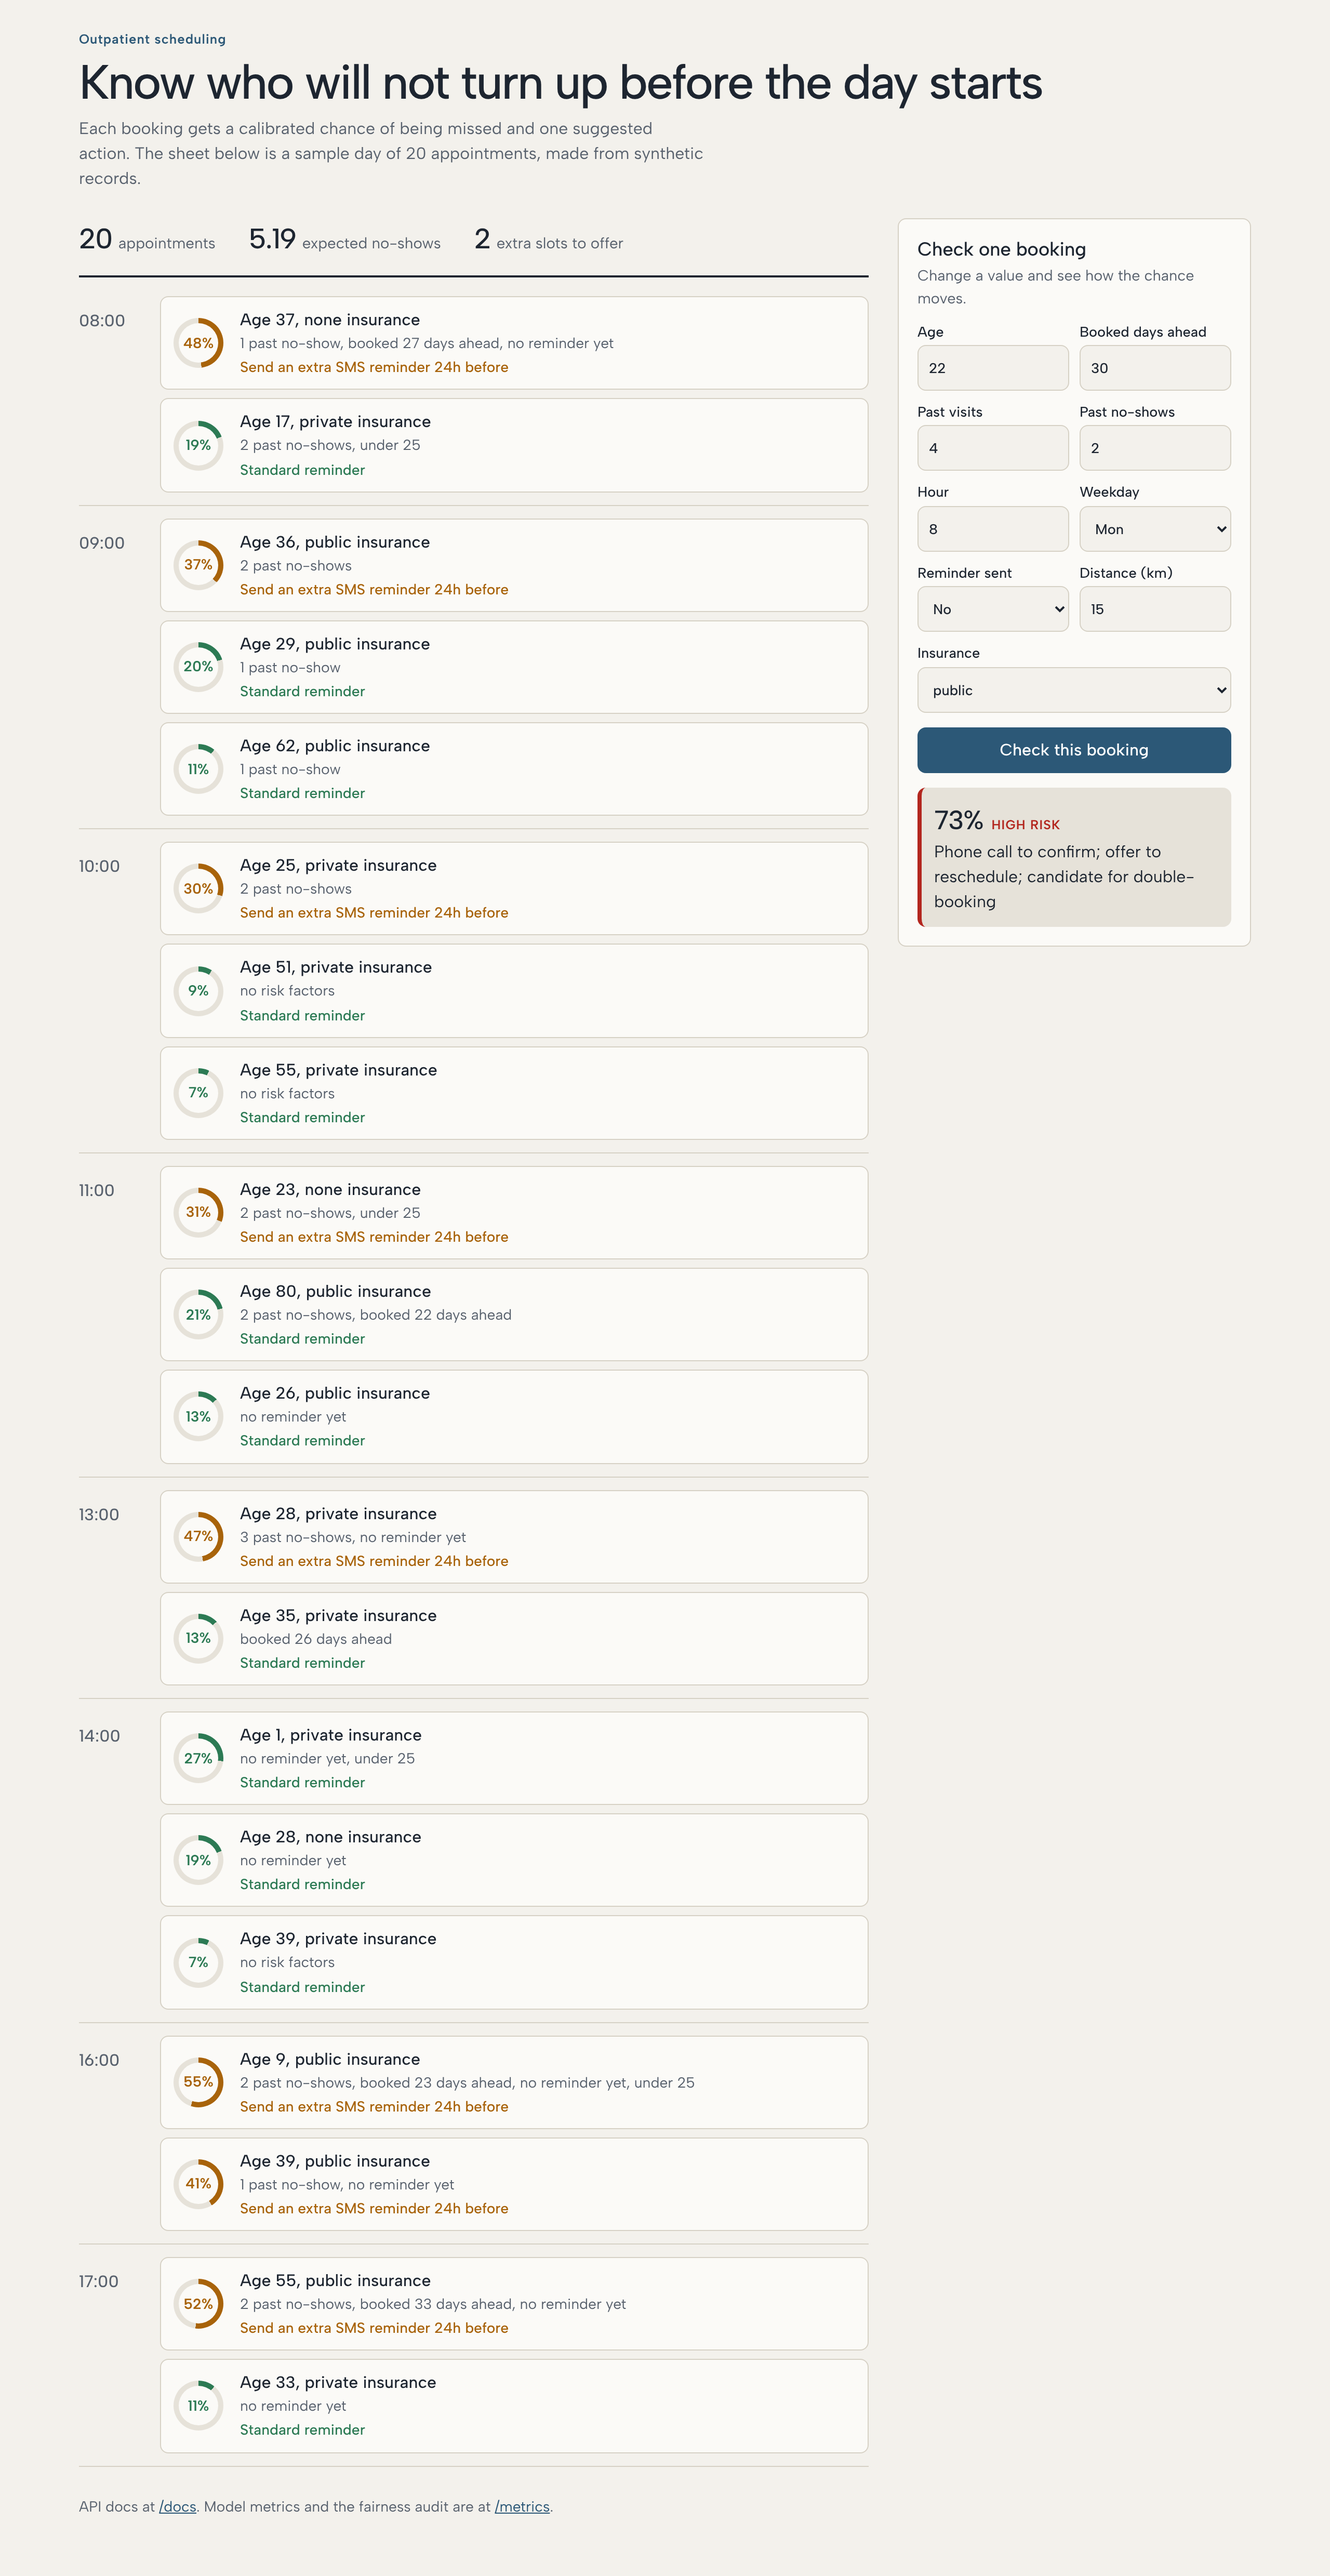
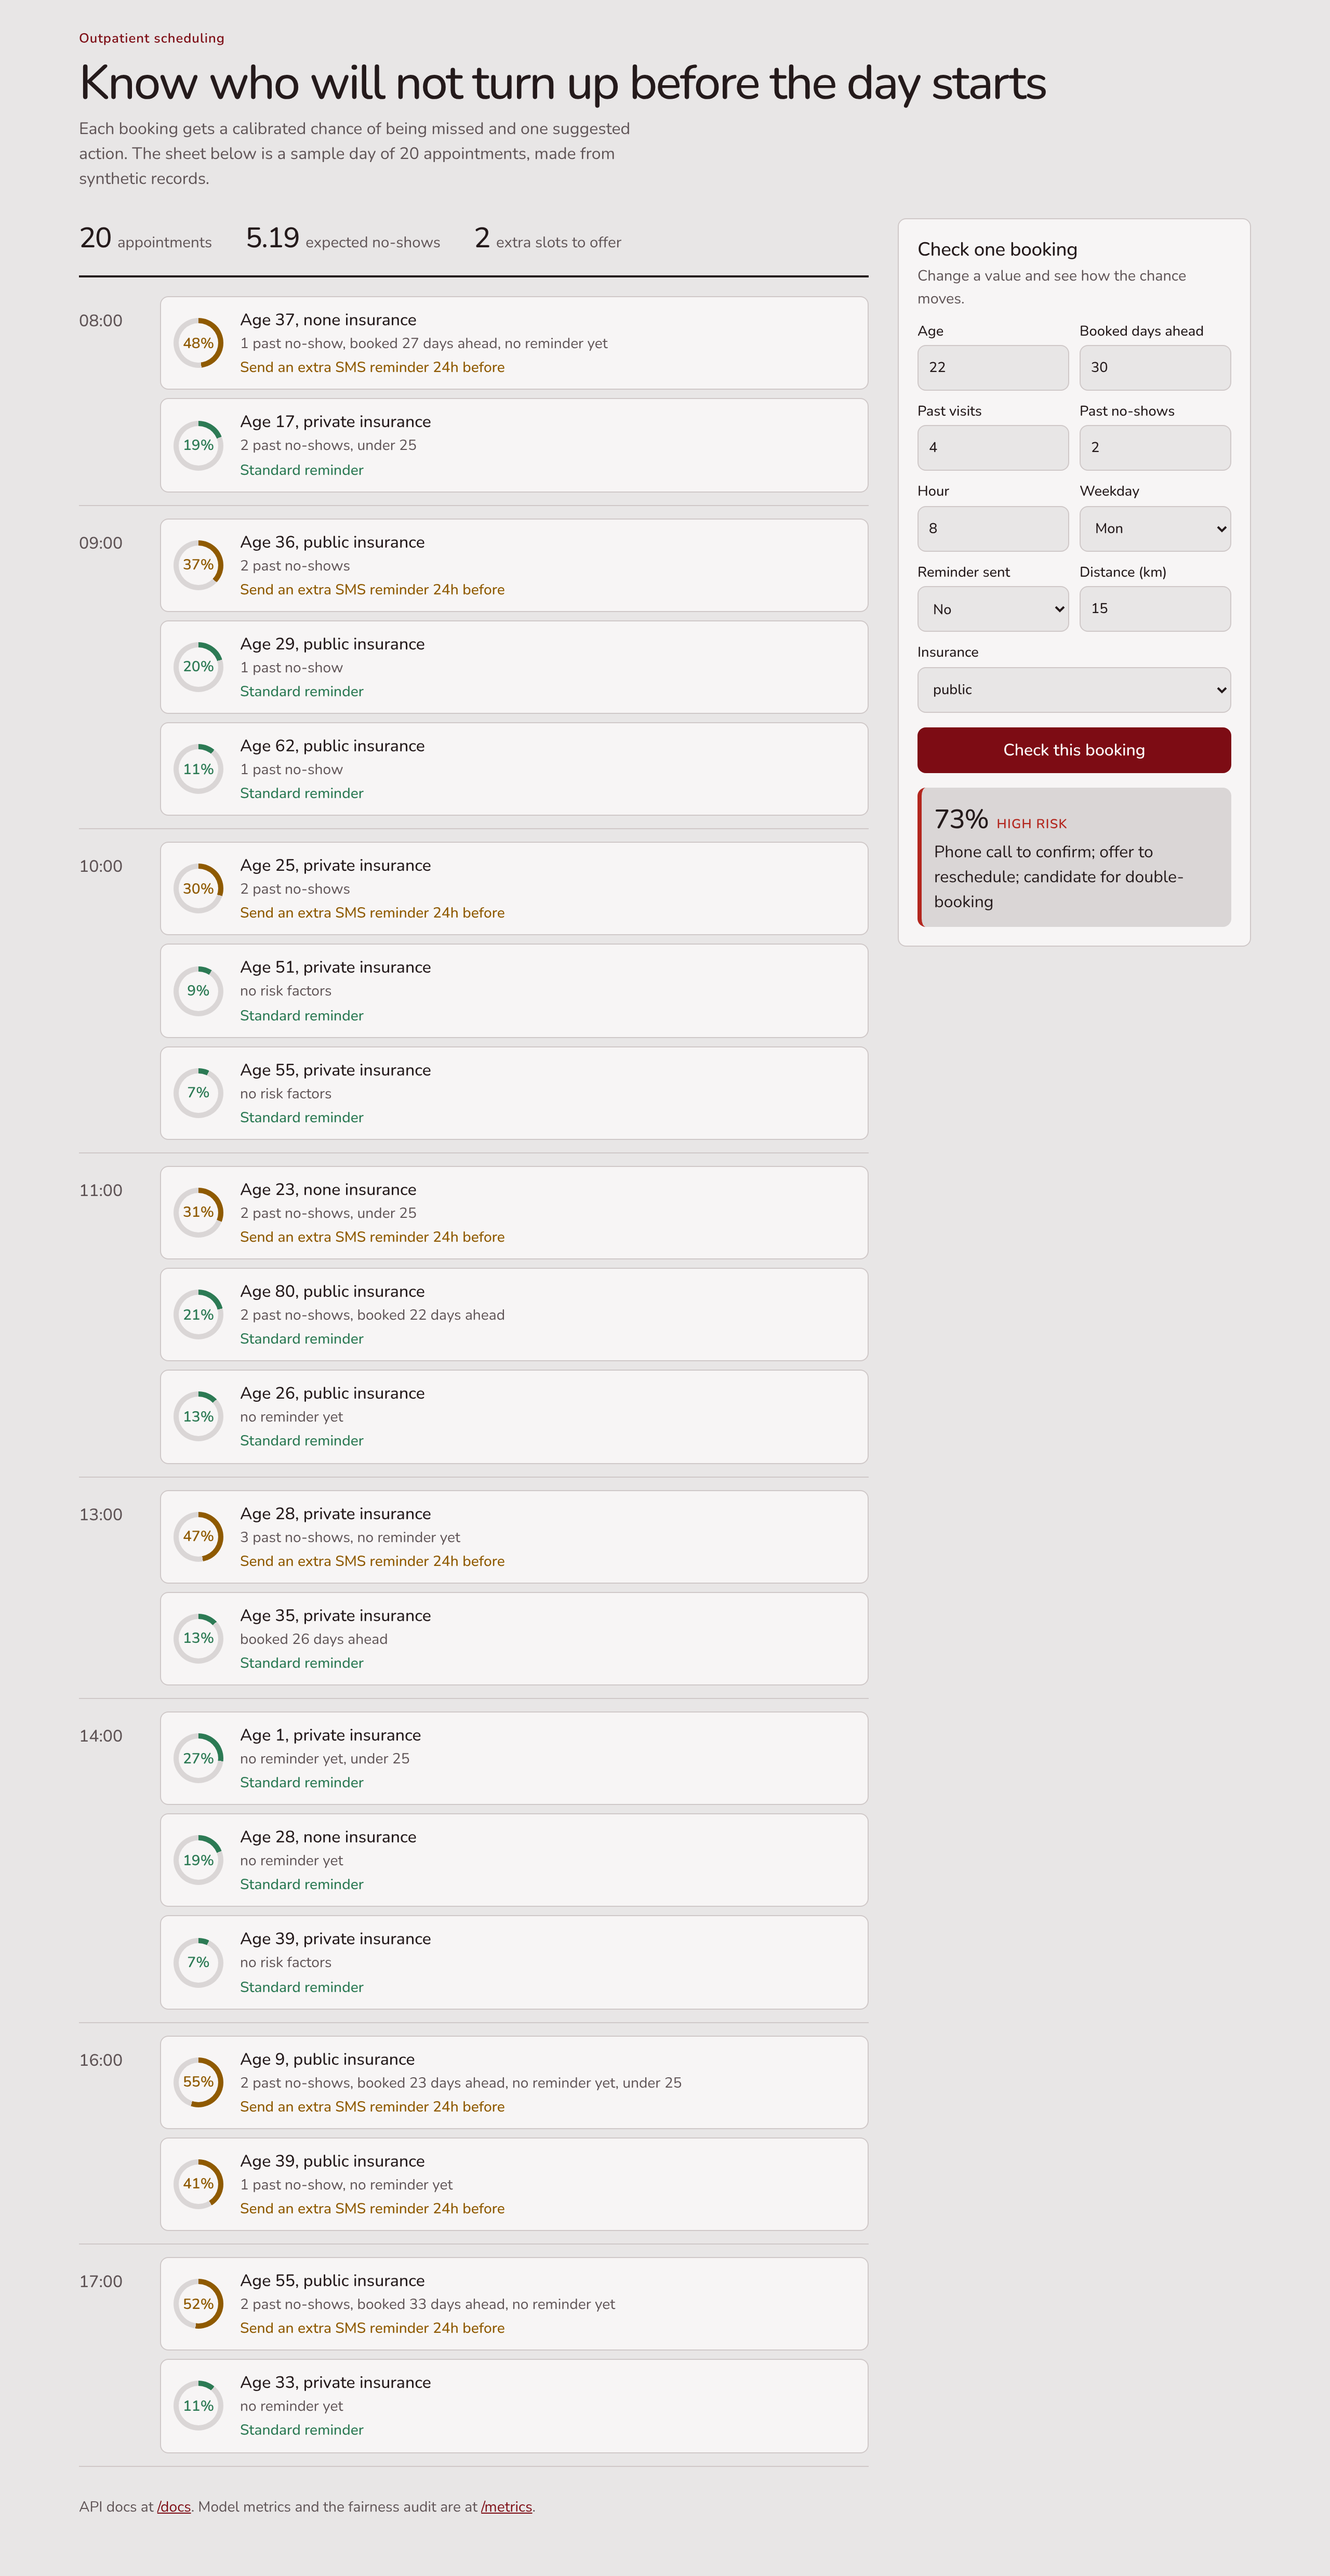
Recolor clinic UI: oxblood palette, Nunito type
Claude-Session: https://claude.ai/code/session_0162F6eeS2UuxoD82Lgwjb2t

diff --git a/static/index.html b/static/index.html
@@ -6,19 +6,19 @@
 <title>Day Sheet</title>
 <meta name="description" content="A clinic day sheet that shows which appointments are likely to be missed and what to do about each one.">
 <link rel="preconnect" href="https://fonts.googleapis.com">
-<link rel="stylesheet" href="https://fonts.googleapis.com/css2?family=Albert+Sans:wght@400;500;600&display=swap">
+<link rel="stylesheet" href="https://fonts.googleapis.com/css2?family=Nunito:wght@400;500;600;700&display=swap">
 <style>
-/* Visual system dealt with taste-skill: palette "linen-harbour", type "albert" (Albert Sans), soft radius. Layout: timetable with a side desk. */
+/* Visual system dealt with taste-skill: palette "oxblood-grey", type "nunito" (Nunito), soft radius. Layout: timetable with a side desk. */
 :root {
-  --bg:#f3f1ec; --surface:#e6e2d9; --card:#fbfaf7; --ink:#1d2530; --muted:#59626e; --accent:#2c5877; --on-accent:#ffffff; --line:#d6d1c5;
-  --high:#b3261e; --medium:#a8630a; --low:#2c7a54;
-  --sans:"Albert Sans", system-ui, sans-serif; --ease:cubic-bezier(.2,.8,.2,1); --r:8px;
+  --bg:#e8e6e6; --surface:#dad6d6; --card:#f7f5f5; --ink:#241a1b; --muted:#5f5456; --accent:#7d0c14; --on-accent:#ffffff; --line:#cfc8c8;
+  --high:#b3261e; --medium:#8f5a00; --low:#2c7a54;
+  --sans:"Nunito", system-ui, sans-serif; --ease:cubic-bezier(.2,.8,.2,1); --r:8px;
 }
 @media (prefers-color-scheme: dark) { :root:not([data-theme="light"]) {
-  --bg:#141a21; --surface:#1c242d; --card:#1f2933; --ink:#e9edf2; --muted:#98a3b0; --accent:#8fb8d9; --on-accent:#10202c; --line:#303c48;
+  --bg:#1a1415; --surface:#241b1c; --card:#2a1f20; --ink:#f2e9e9; --muted:#aa9a9c; --accent:#f0868e; --on-accent:#2a0b0e; --line:#3d2e30;
   --high:#ff8277; --medium:#efb05a; --low:#6cc99a; color-scheme: dark; } }
 :root[data-theme="dark"] {
-  --bg:#141a21; --surface:#1c242d; --card:#1f2933; --ink:#e9edf2; --muted:#98a3b0; --accent:#8fb8d9; --on-accent:#10202c; --line:#303c48;
+  --bg:#1a1415; --surface:#241b1c; --card:#2a1f20; --ink:#f2e9e9; --muted:#aa9a9c; --accent:#f0868e; --on-accent:#2a0b0e; --line:#3d2e30;
   --high:#ff8277; --medium:#efb05a; --low:#6cc99a; color-scheme: dark; }
 * { box-sizing:border-box; }
 body { margin:0; background:var(--bg); color:var(--ink); font:400 16px/1.5 var(--sans); }

diff --git a/README.md b/README.md
@@ -51,7 +51,7 @@ curl -s localhost:8000/predict -H 'content-type: application/json' -d '{"age":22
 - **Risk bands drive concrete actions** — a score is only useful if it changes what staff do.
 - **Overbook = floor(50% × expected no-shows)** — deliberately conservative to limit patient pile-ups; the share is a parameter.
 - **Fairness audit built in** — scheduling models can disadvantage groups; flag rate and AUC per group are visible at `/metrics`. Note the flag rate is higher for under-25s and uninsured patients, mirroring the (synthetic) base rates; in production this would need clinical and ethical review, and the model should trigger *supportive* actions (reminders, easier rescheduling), never denial of care.
-- **Day-sheet timetable UI, no framework** — staff think in hours and slots, so risk is shown on the schedule itself; visual system dealt with the taste-skill kit (palette "linen-harbour", Albert Sans).
+- **Day-sheet timetable UI, no framework** — staff think in hours and slots, so risk is shown on the schedule itself; visual system dealt with the taste-skill kit (palette "oxblood-grey", Nunito).
 - **Strict request validation (pydantic ranges, enum insurance)** — rejects bad input at the edge.
 - **Data generated by a seeded logistic simulator** — no patient data, reproducible, with known ground-truth drivers.
 
